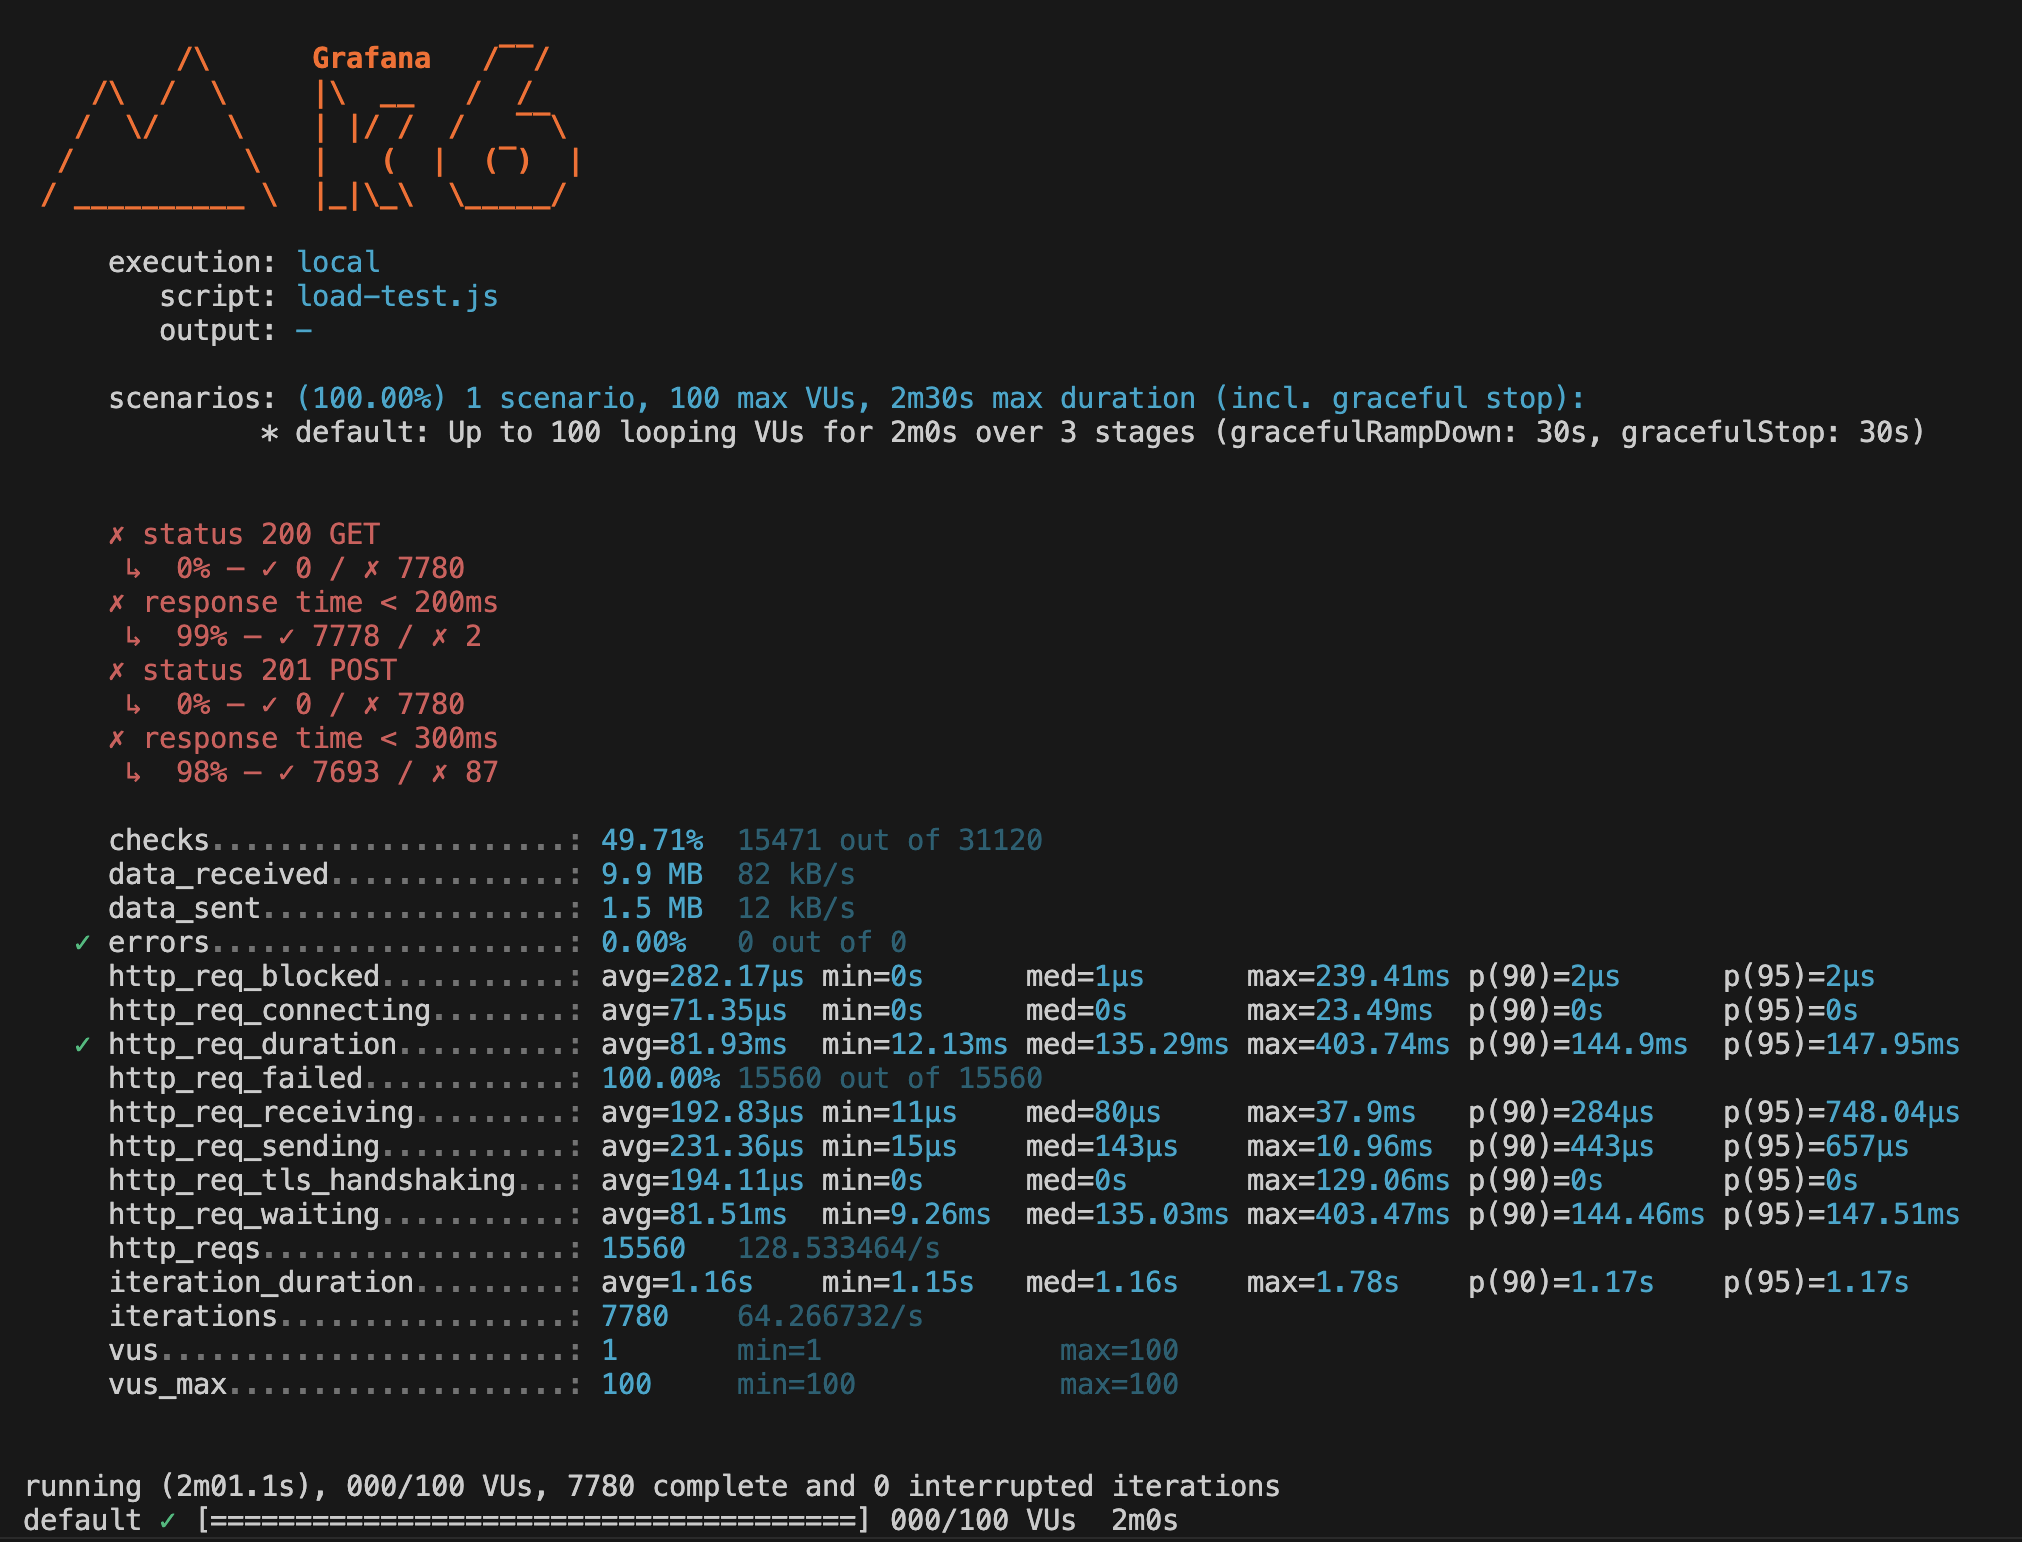
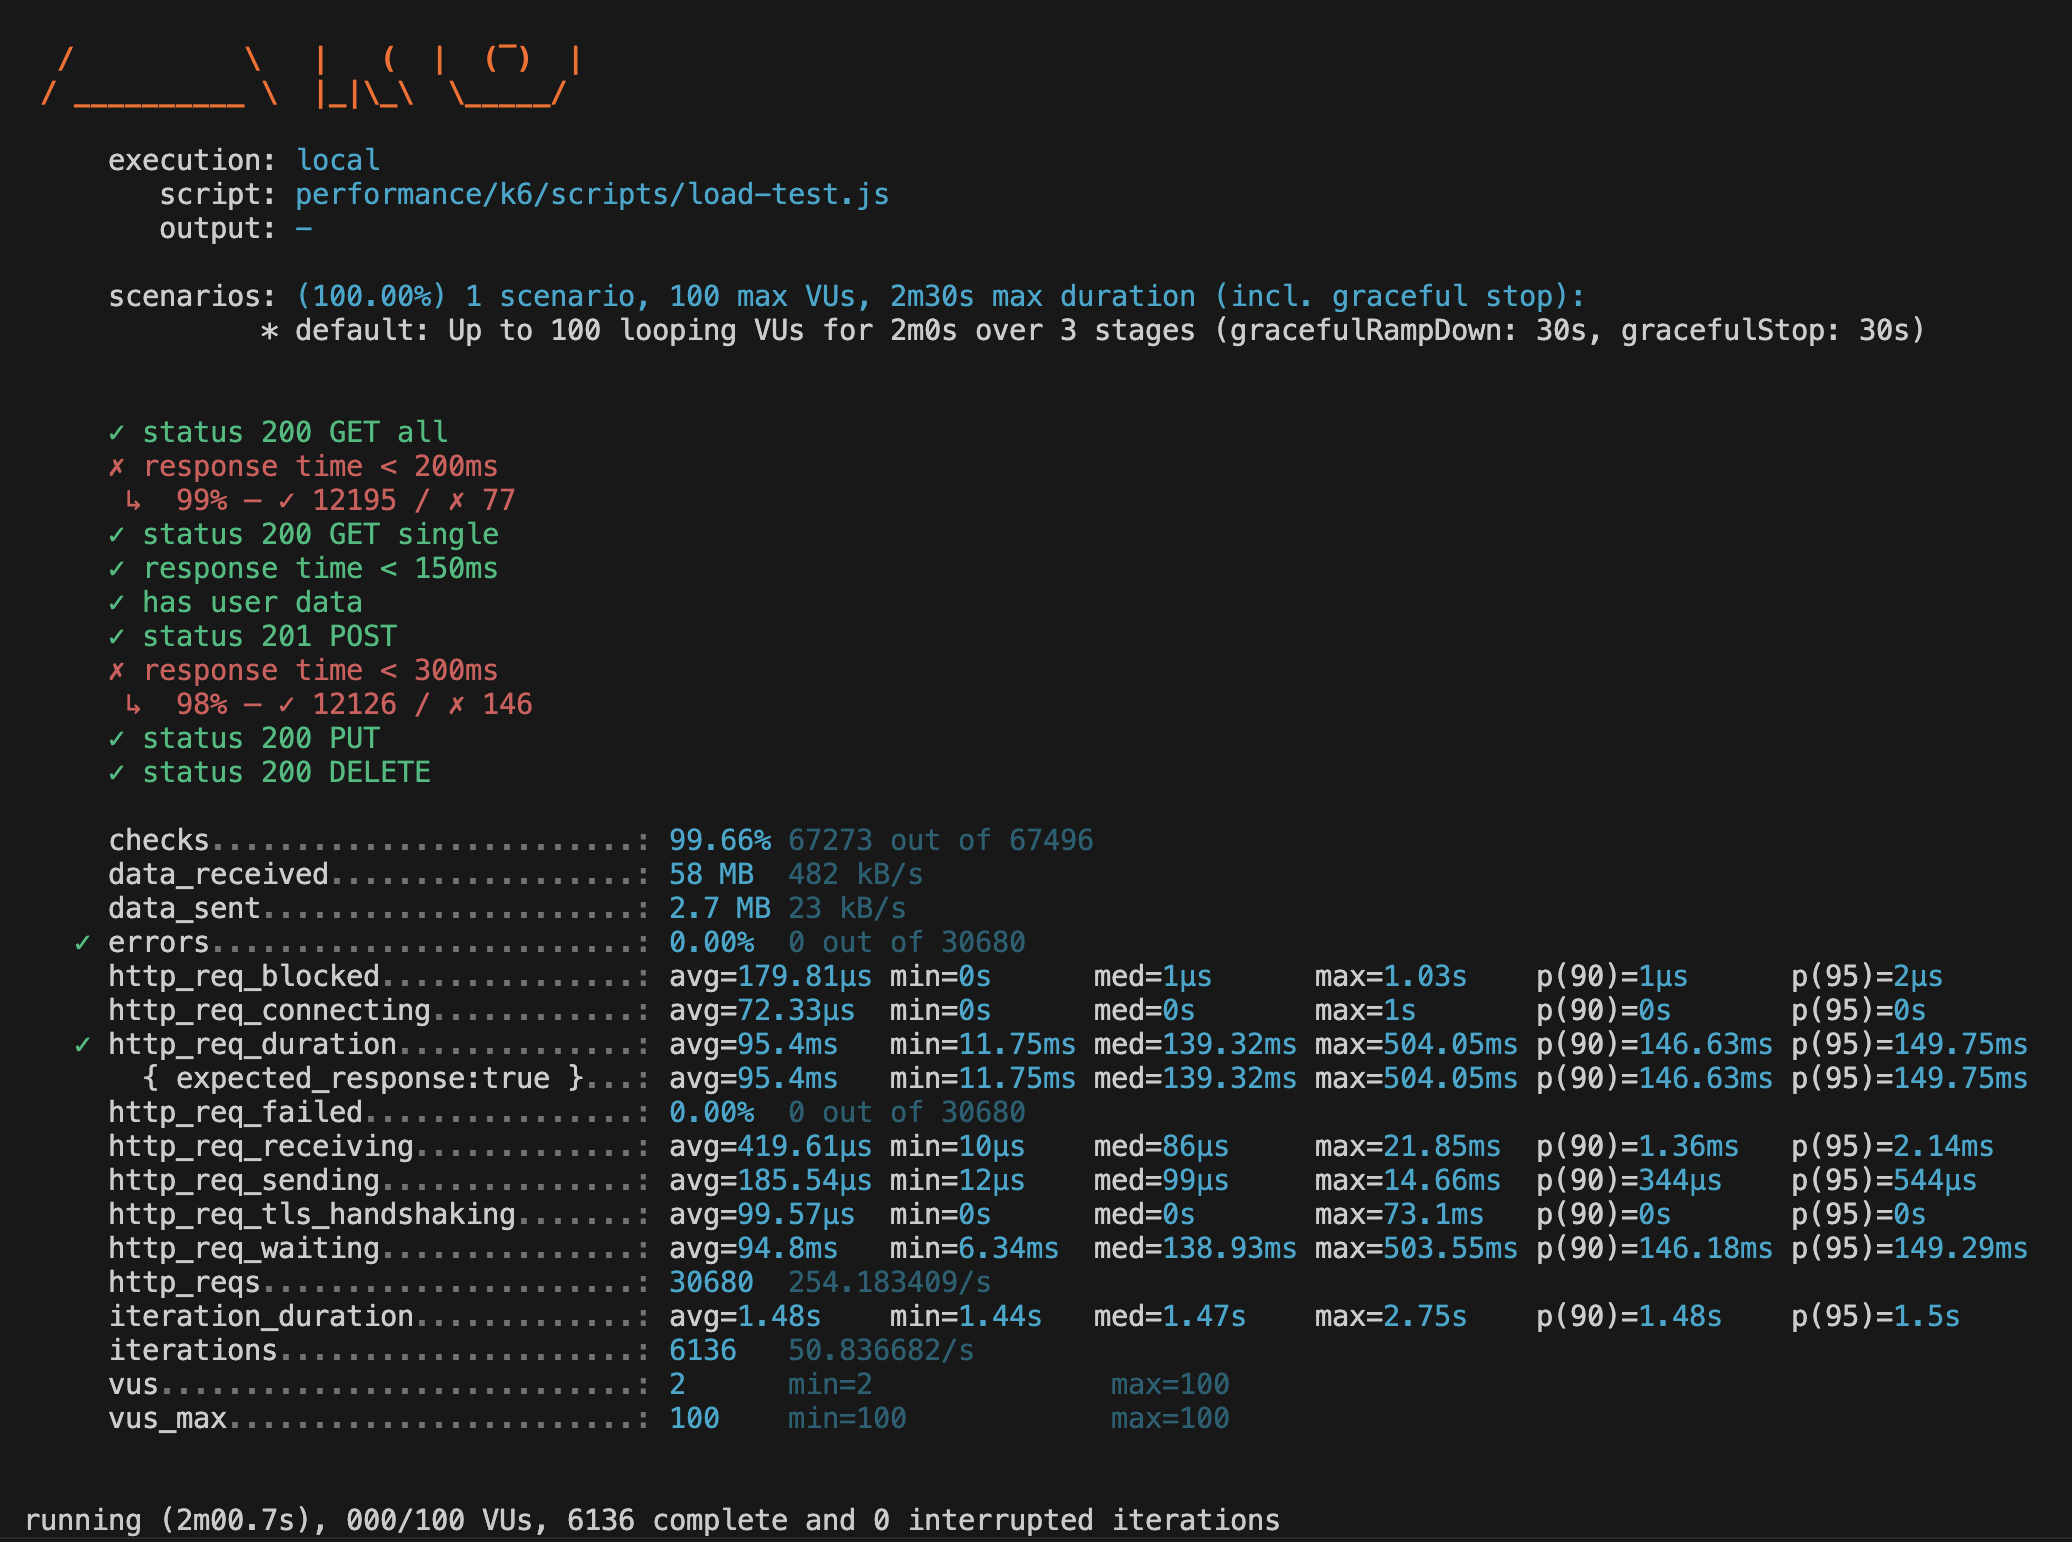
teste de performance add e readme

diff --git a/performance/k6/scripts/load-test.js b/performance/k6/scripts/load-test.js
@@ -16,21 +16,29 @@ export const options = {
     },
 };
 
-const BASE_URL = 'https://jsonplaceholder.typicode.com/users';
+const BASE_URL = 'https://jsonplaceholder.typicode.com/';
 
 export default function () {
-    // Teste GET
+    // Teste GET todos os usuários
     const getResponse = http.get(`${BASE_URL}/users`);
     check(getResponse, {
-        'status 200 GET': (r) => r.status === 200,
+        'status 200 GET all': (r) => r.status === 200,
         'response time < 200ms': (r) => r.timings.duration < 200,
+    });
+
+    // Teste GET usuário específico
+    const getUserResponse = http.get(`${BASE_URL}/users/1`);
+    check(getUserResponse, {
+        'status 200 GET single': (r) => r.status === 200,
+        'response time < 150ms': (r) => r.timings.duration < 150,
+        'has user data': (r) => r.json().id === 1
     });
 
     // Teste POST
     const payload = JSON.stringify({
-        nome: 'Usuário Teste',
-        email: 'teste@exemplo.com',
-        senha: 'SenhaForte123!'
+        name: 'Test User',
+        email: 'test@example.com',
+        phone: '1234567890'
     });
 
     const params = {
@@ -44,6 +52,33 @@ export default function () {
         'status 201 POST': (r) => r.status === 201,
         'response time < 300ms': (r) => r.timings.duration < 300,
     });
+
+    // Teste PUT
+    const updatePayload = JSON.stringify({
+        name: 'Updated User',
+        email: 'updated@example.com',
+        phone: '0987654321'
+    });
+
+    const putResponse = http.put(`${BASE_URL}/users/1`, updatePayload, params);
+    check(putResponse, {
+        'status 200 PUT': (r) => r.status === 200,
+        'response time < 300ms': (r) => r.timings.duration < 300,
+    });
+
+    // Teste DELETE
+    const deleteResponse = http.del(`${BASE_URL}/users/1`);
+    check(deleteResponse, {
+        'status 200 DELETE': (r) => r.status === 200,
+        'response time < 200ms': (r) => r.timings.duration < 200,
+    });
+
+    // Registrar erro se alguma requisição falhar
+    errorRate.add(getResponse.status !== 200);
+    errorRate.add(getUserResponse.status !== 200);
+    errorRate.add(postResponse.status !== 201);
+    errorRate.add(putResponse.status !== 200);
+    errorRate.add(deleteResponse.status !== 200);
 
     sleep(1);
 }

diff --git a/README.md b/README.md
@@ -155,9 +155,4 @@ k6 run scripts/load-test.js
 ✓ response time < 300ms.........: 97%
 ```
 
-## 📝 Análise de Resultados
-- Gráficos gerados disponíveis em `/reports`
-- Métricas detalhadas no dashboard do Grafana
-- Documentação de thresholds em `config.json`
-
 ![Resultado Collection Postman](https://github.com/epeles/formulario-testes/blob/main/assets/grafana-k6-resultado.png)
